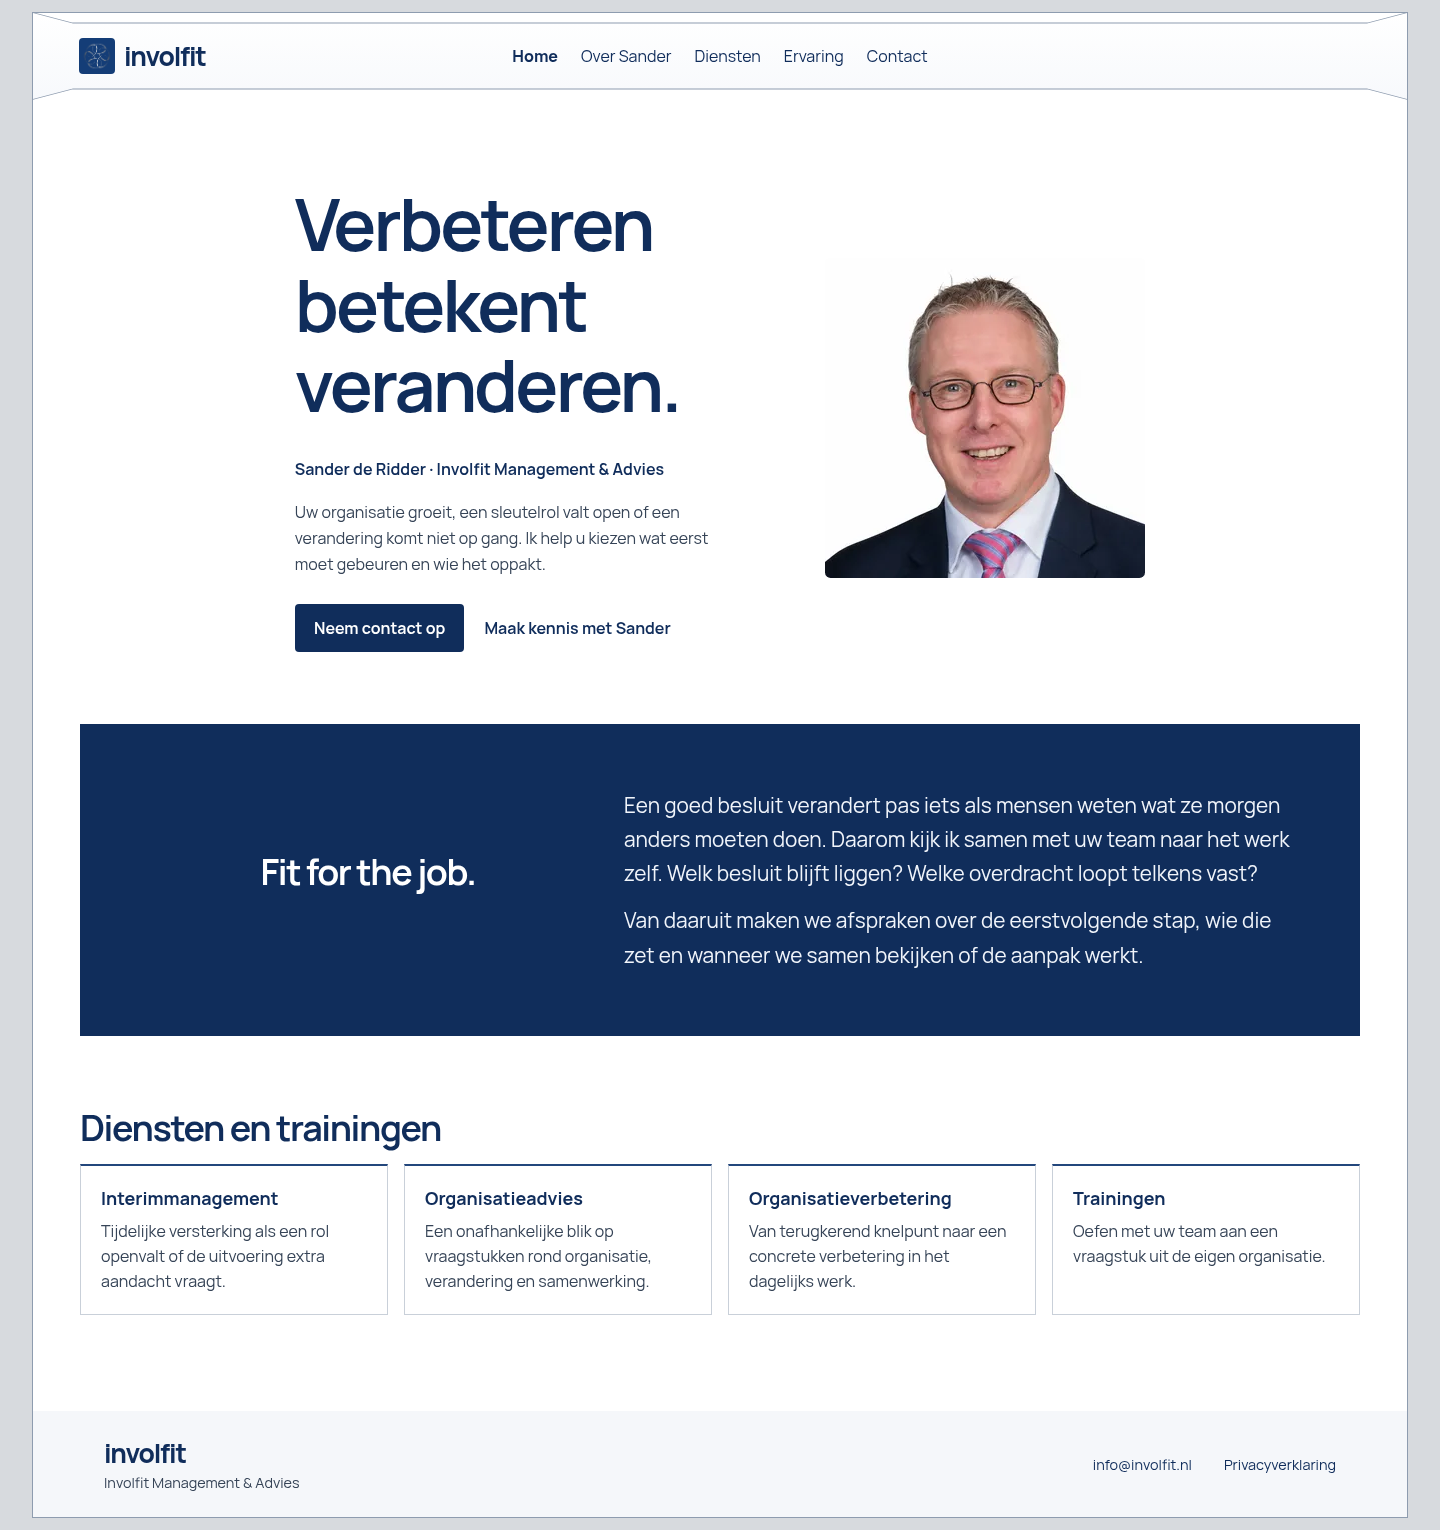
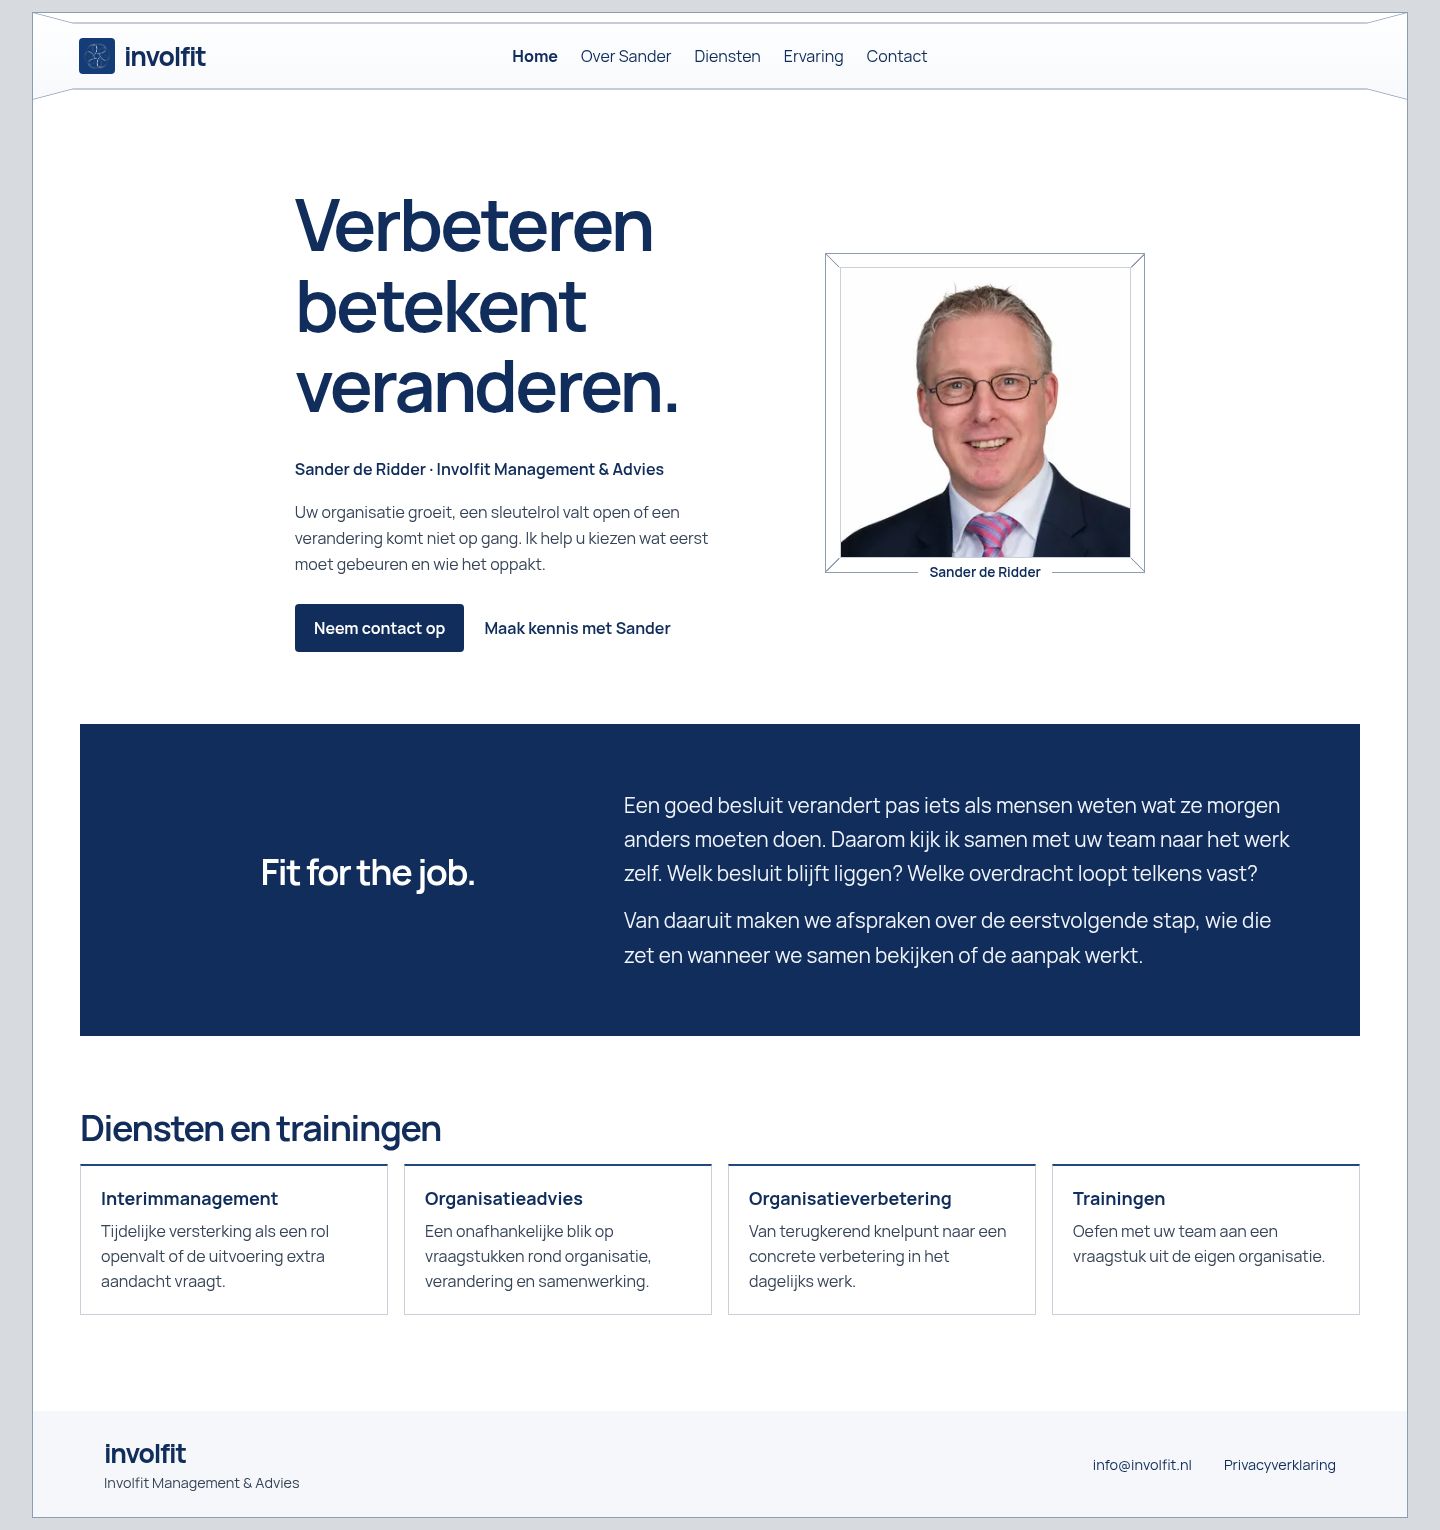
Frame the Involfit portrait with angled corners and a caption

Changed region(s): [[0.5625, 0.1843, 0.8125, 0.3993]]

diff --git a/projects/involfit/public/site.css b/projects/involfit/public/site.css
@@ -116,15 +116,43 @@ h2 { font-size: clamp(1.4rem, 3vw, 2.25rem); font-weight: 650; }
 .hero-actions a:is(:hover, :focus-visible, :active) { font-weight: 750; }
 .hero-contact { background: var(--ink); color: white; padding: .8rem 1.2rem; border-radius: .25rem; }
 .hero-contact:hover { background: #23477c; }
-.portrait {
-  display: block;
+.portrait-frame {
+  --portrait-inset: .85rem;
+  --portrait-line: #8e9caf;
+  position: relative;
   justify-self: center;
   width: min(100%, 20rem);
+  margin: 0 0 .65rem;
+  padding: var(--portrait-inset);
+  border: 1px solid var(--portrait-line);
+  background:
+    linear-gradient(to top right, transparent 46%, var(--portrait-line) 48% 52%, transparent 54%) top left,
+    linear-gradient(to top left, transparent 46%, var(--portrait-line) 48% 52%, transparent 54%) top right,
+    linear-gradient(to bottom right, transparent 46%, var(--portrait-line) 48% 52%, transparent 54%) bottom left,
+    linear-gradient(to bottom left, transparent 46%, var(--portrait-line) 48% 52%, transparent 54%) bottom right;
+  background-repeat: no-repeat;
+  background-size: var(--portrait-inset) var(--portrait-inset);
+}
+.portrait {
+  display: block;
+  width: 100%;
   height: auto;
   aspect-ratio: 1;
   object-fit: cover;
   object-position: center top;
-  border-radius: .35rem;
+  border: 1px solid var(--line);
+}
+.portrait-frame figcaption {
+  position: absolute;
+  bottom: 0;
+  left: 50%;
+  transform: translate(-50%, 50%);
+  padding-inline: .7rem;
+  background: white;
+  color: var(--ink);
+  font-size: .85rem;
+  font-weight: 650;
+  white-space: nowrap;
 }
 .introduction {
   display: grid;
@@ -215,7 +243,7 @@ summary { cursor: pointer; min-height: 44px; }
   }
   .mobile-nav nav a { min-height: 44px; padding: .65rem .45rem; border-top: 1px solid var(--line); }
   .hero, .introduction { grid-template-columns: minmax(0, 1fr); }
-  .portrait { width: min(100%, 16rem); }
+  .portrait-frame { width: min(100%, 16rem); }
   .introduction { gap: .75rem; }
   .expertise-links { grid-template-columns: minmax(0, 1fr); gap: .75rem; }
   .expertise-card { min-height: 0; }
